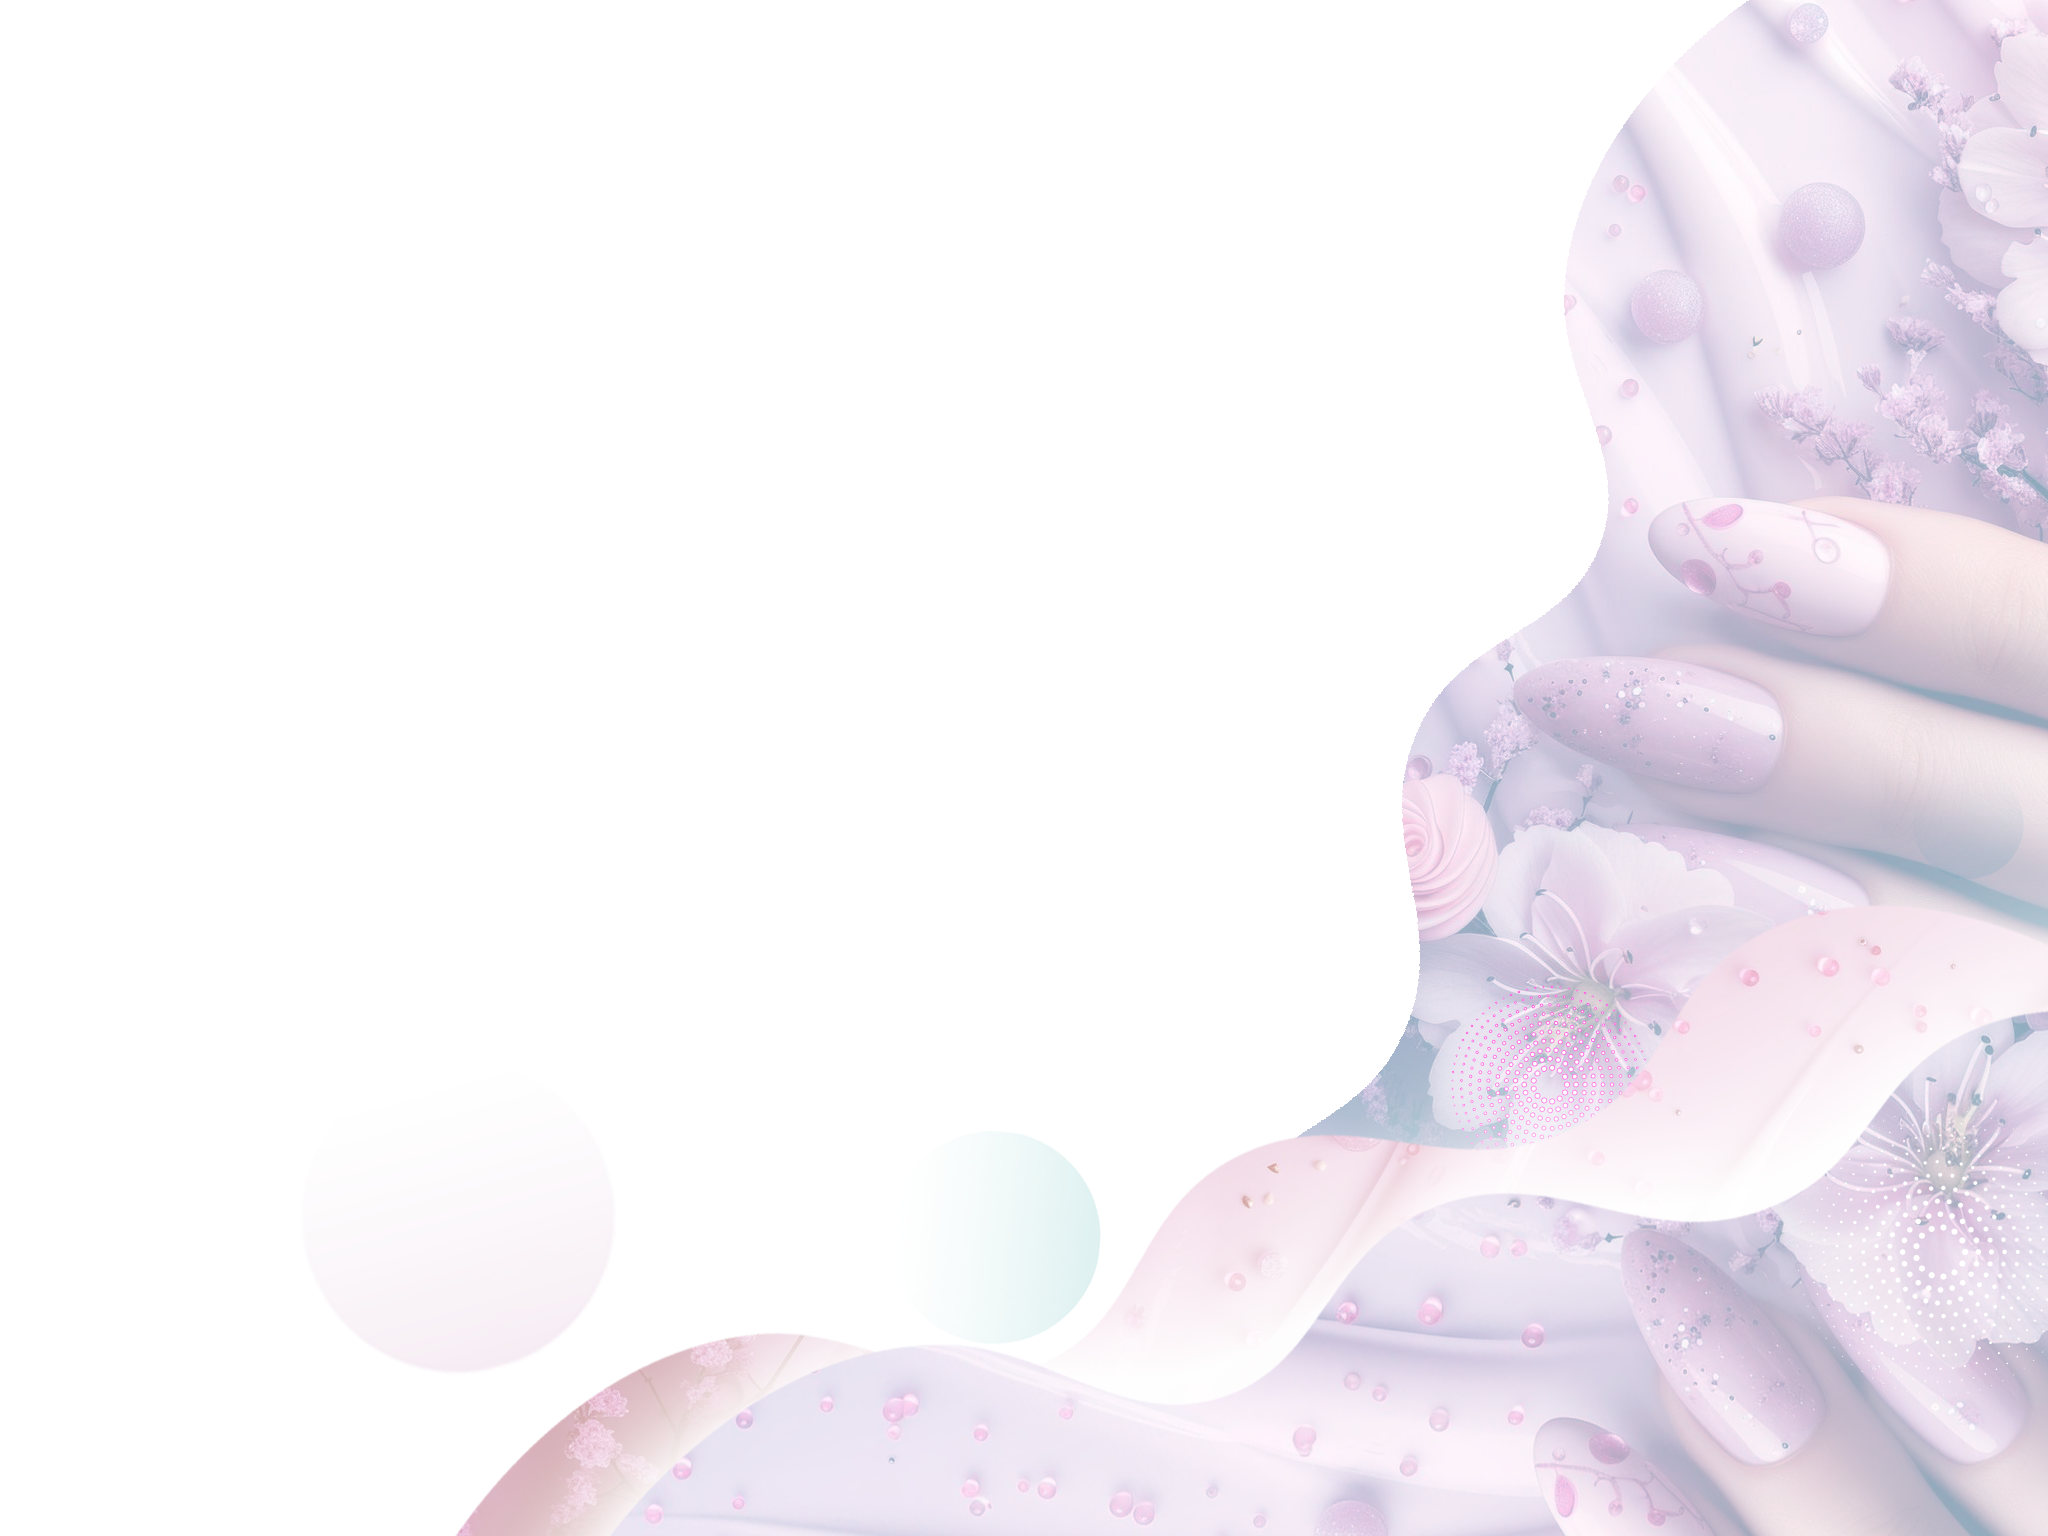
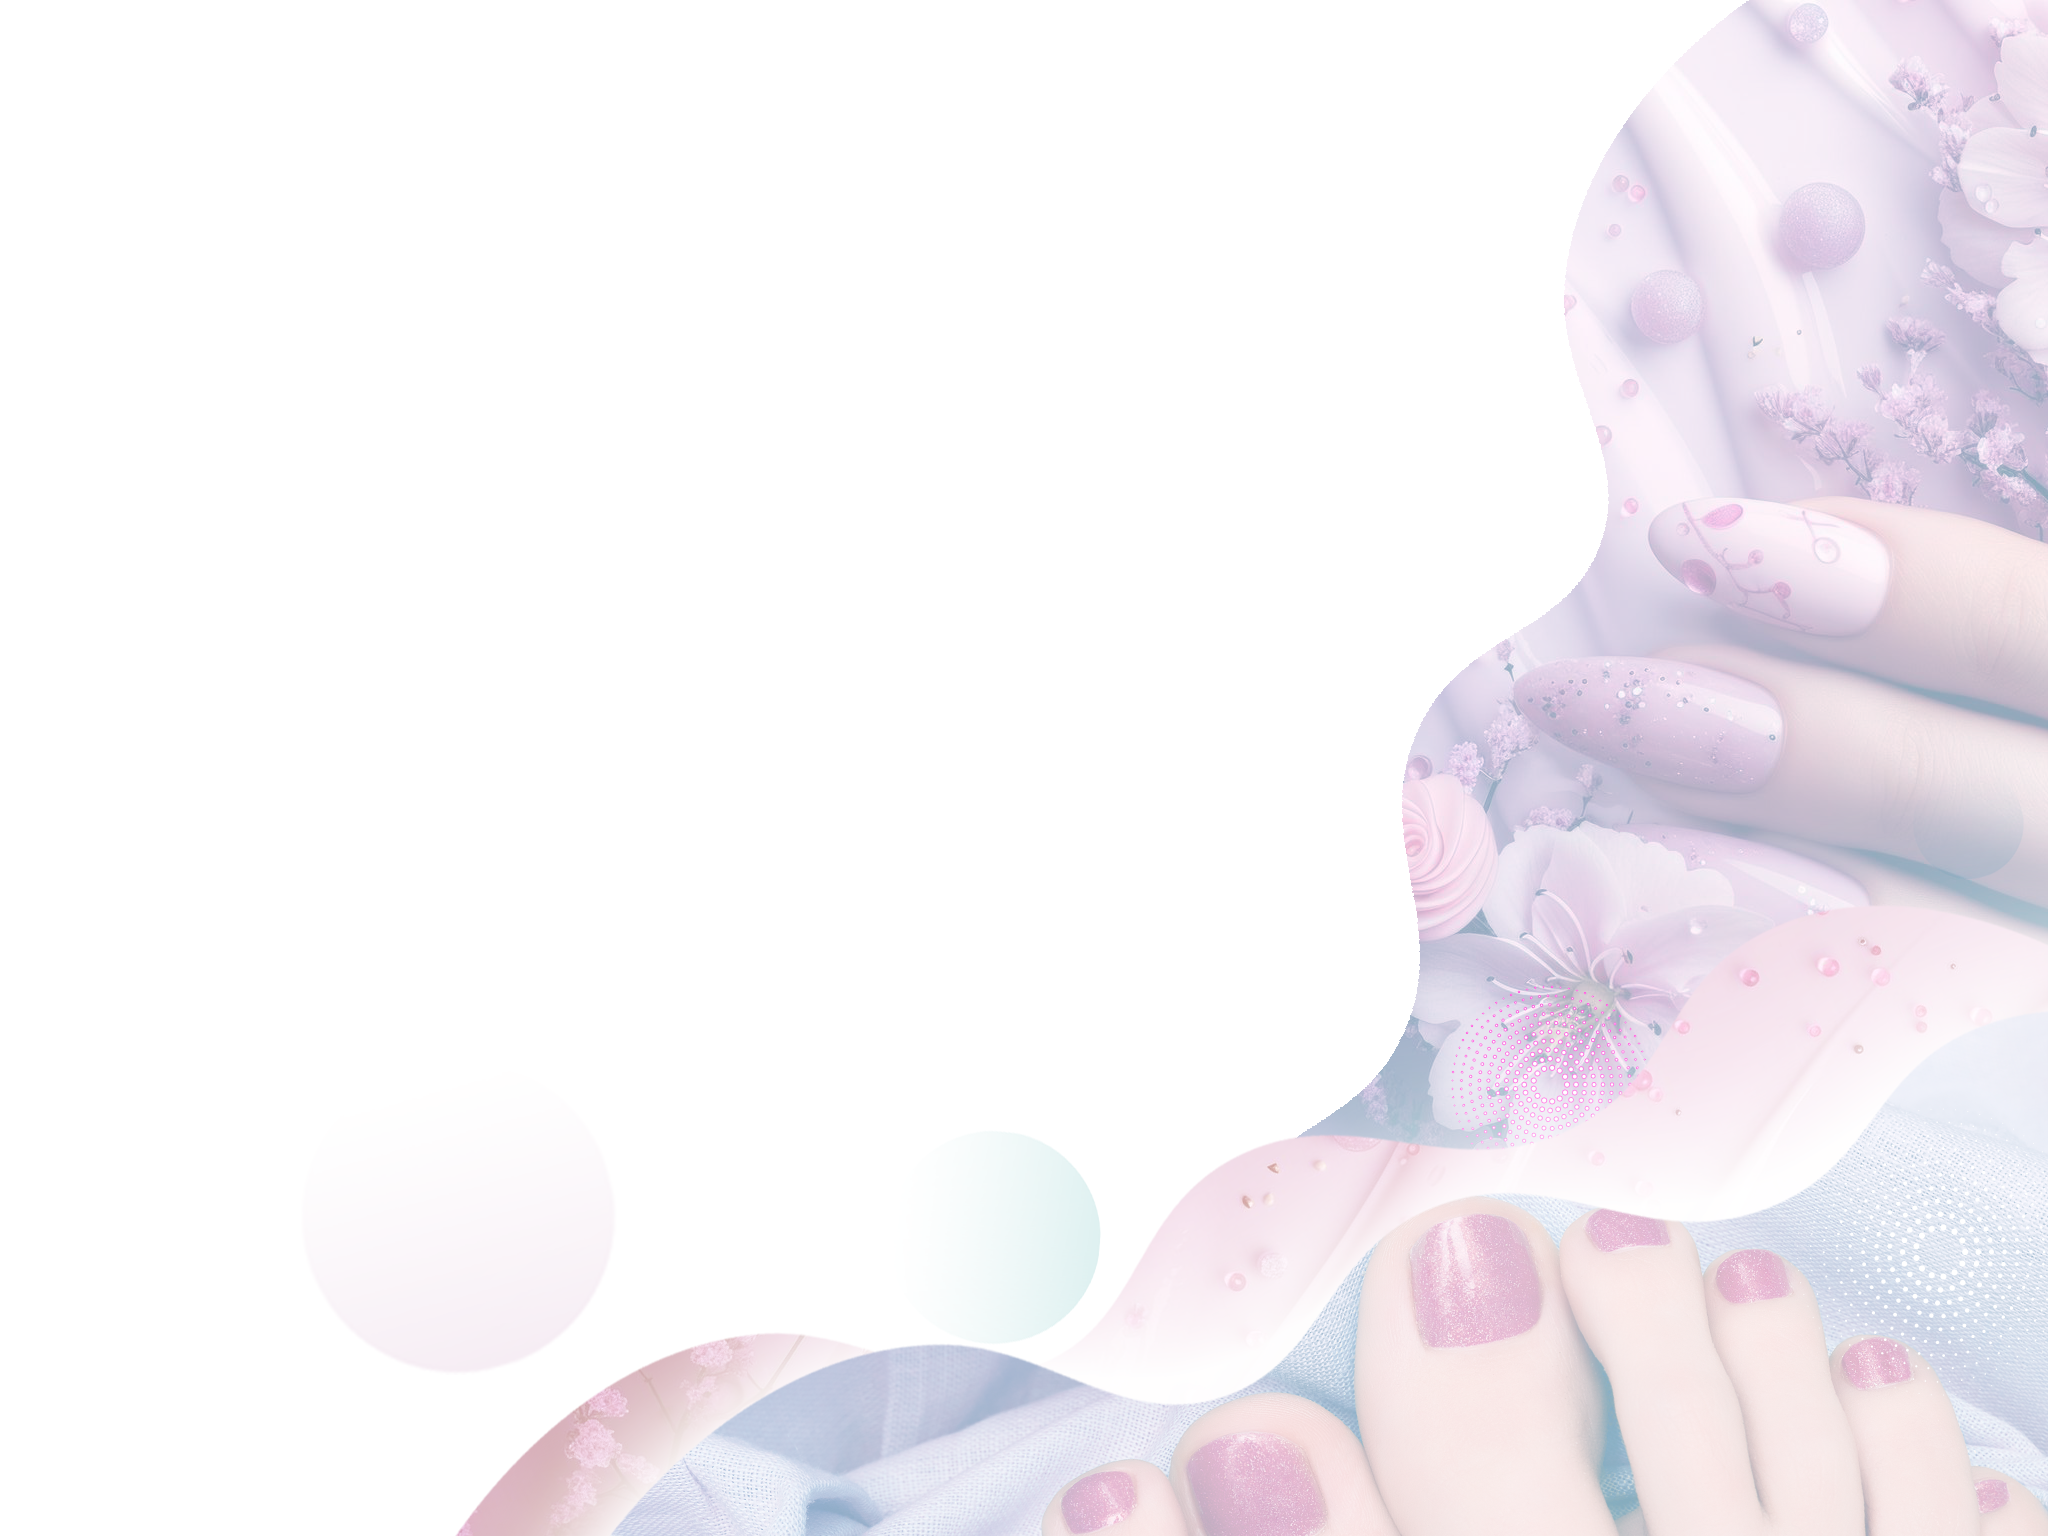
fondo pantalla

Changed region(s): [[0.3125, 0.6562, 1.0, 1.0]]

diff --git a/resources/views/layouts/guest.blade.php b/resources/views/layouts/guest.blade.php
@@ -36,7 +36,7 @@
     @livewireStyles
 
 </head>
-<body style="background: url('images/fondo_intro.jpg') no-repeat bottom; background-size: cover">
+<body style="background: url('images/fondo_intro.png') no-repeat bottom; background-size: cover">
 
     <div class="font-sans text-gray-900 antialiased">
         {{ $slot }}
